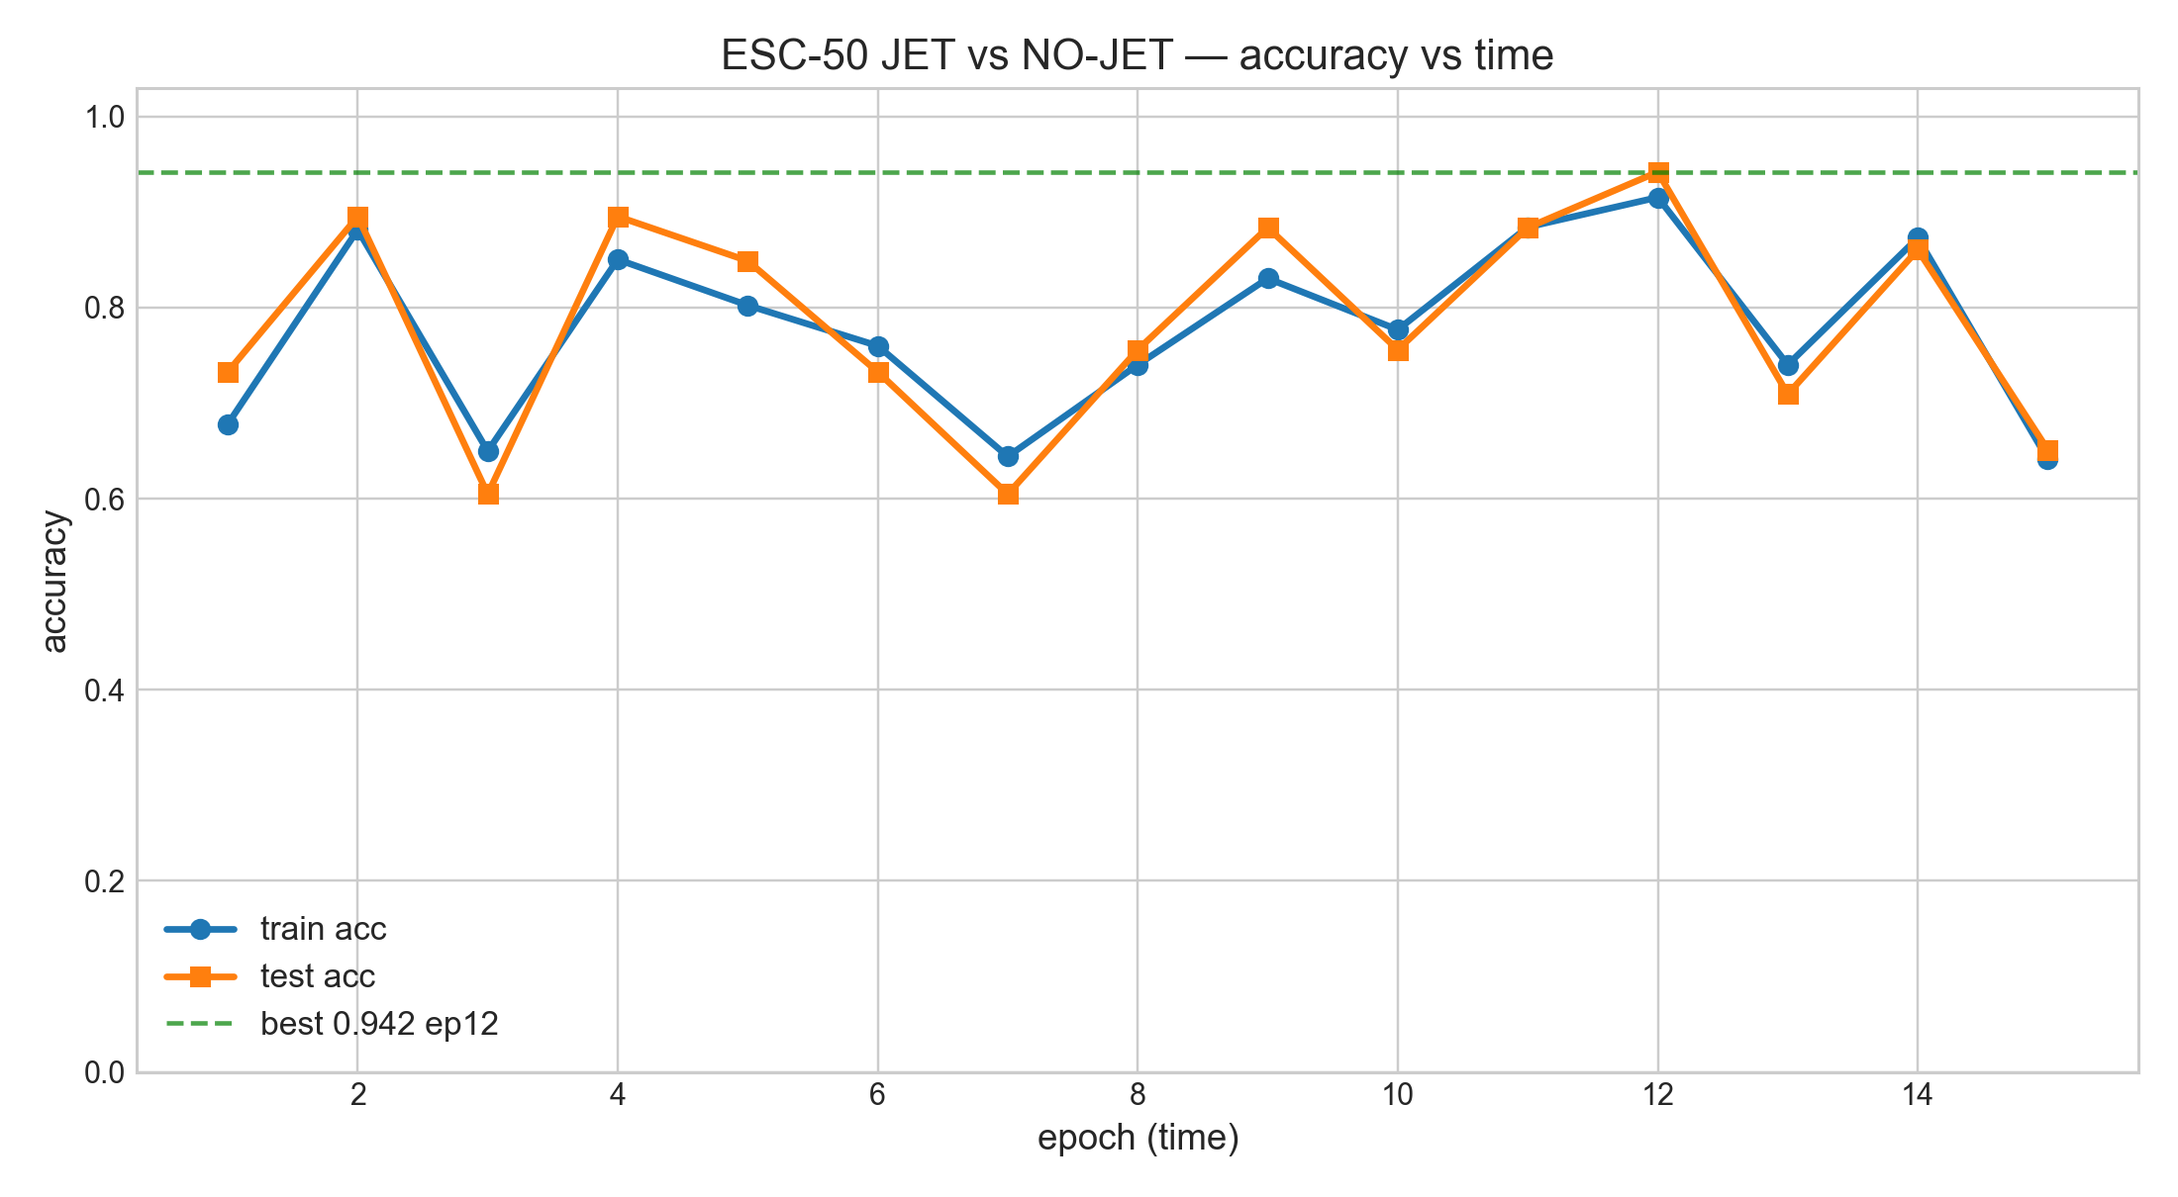
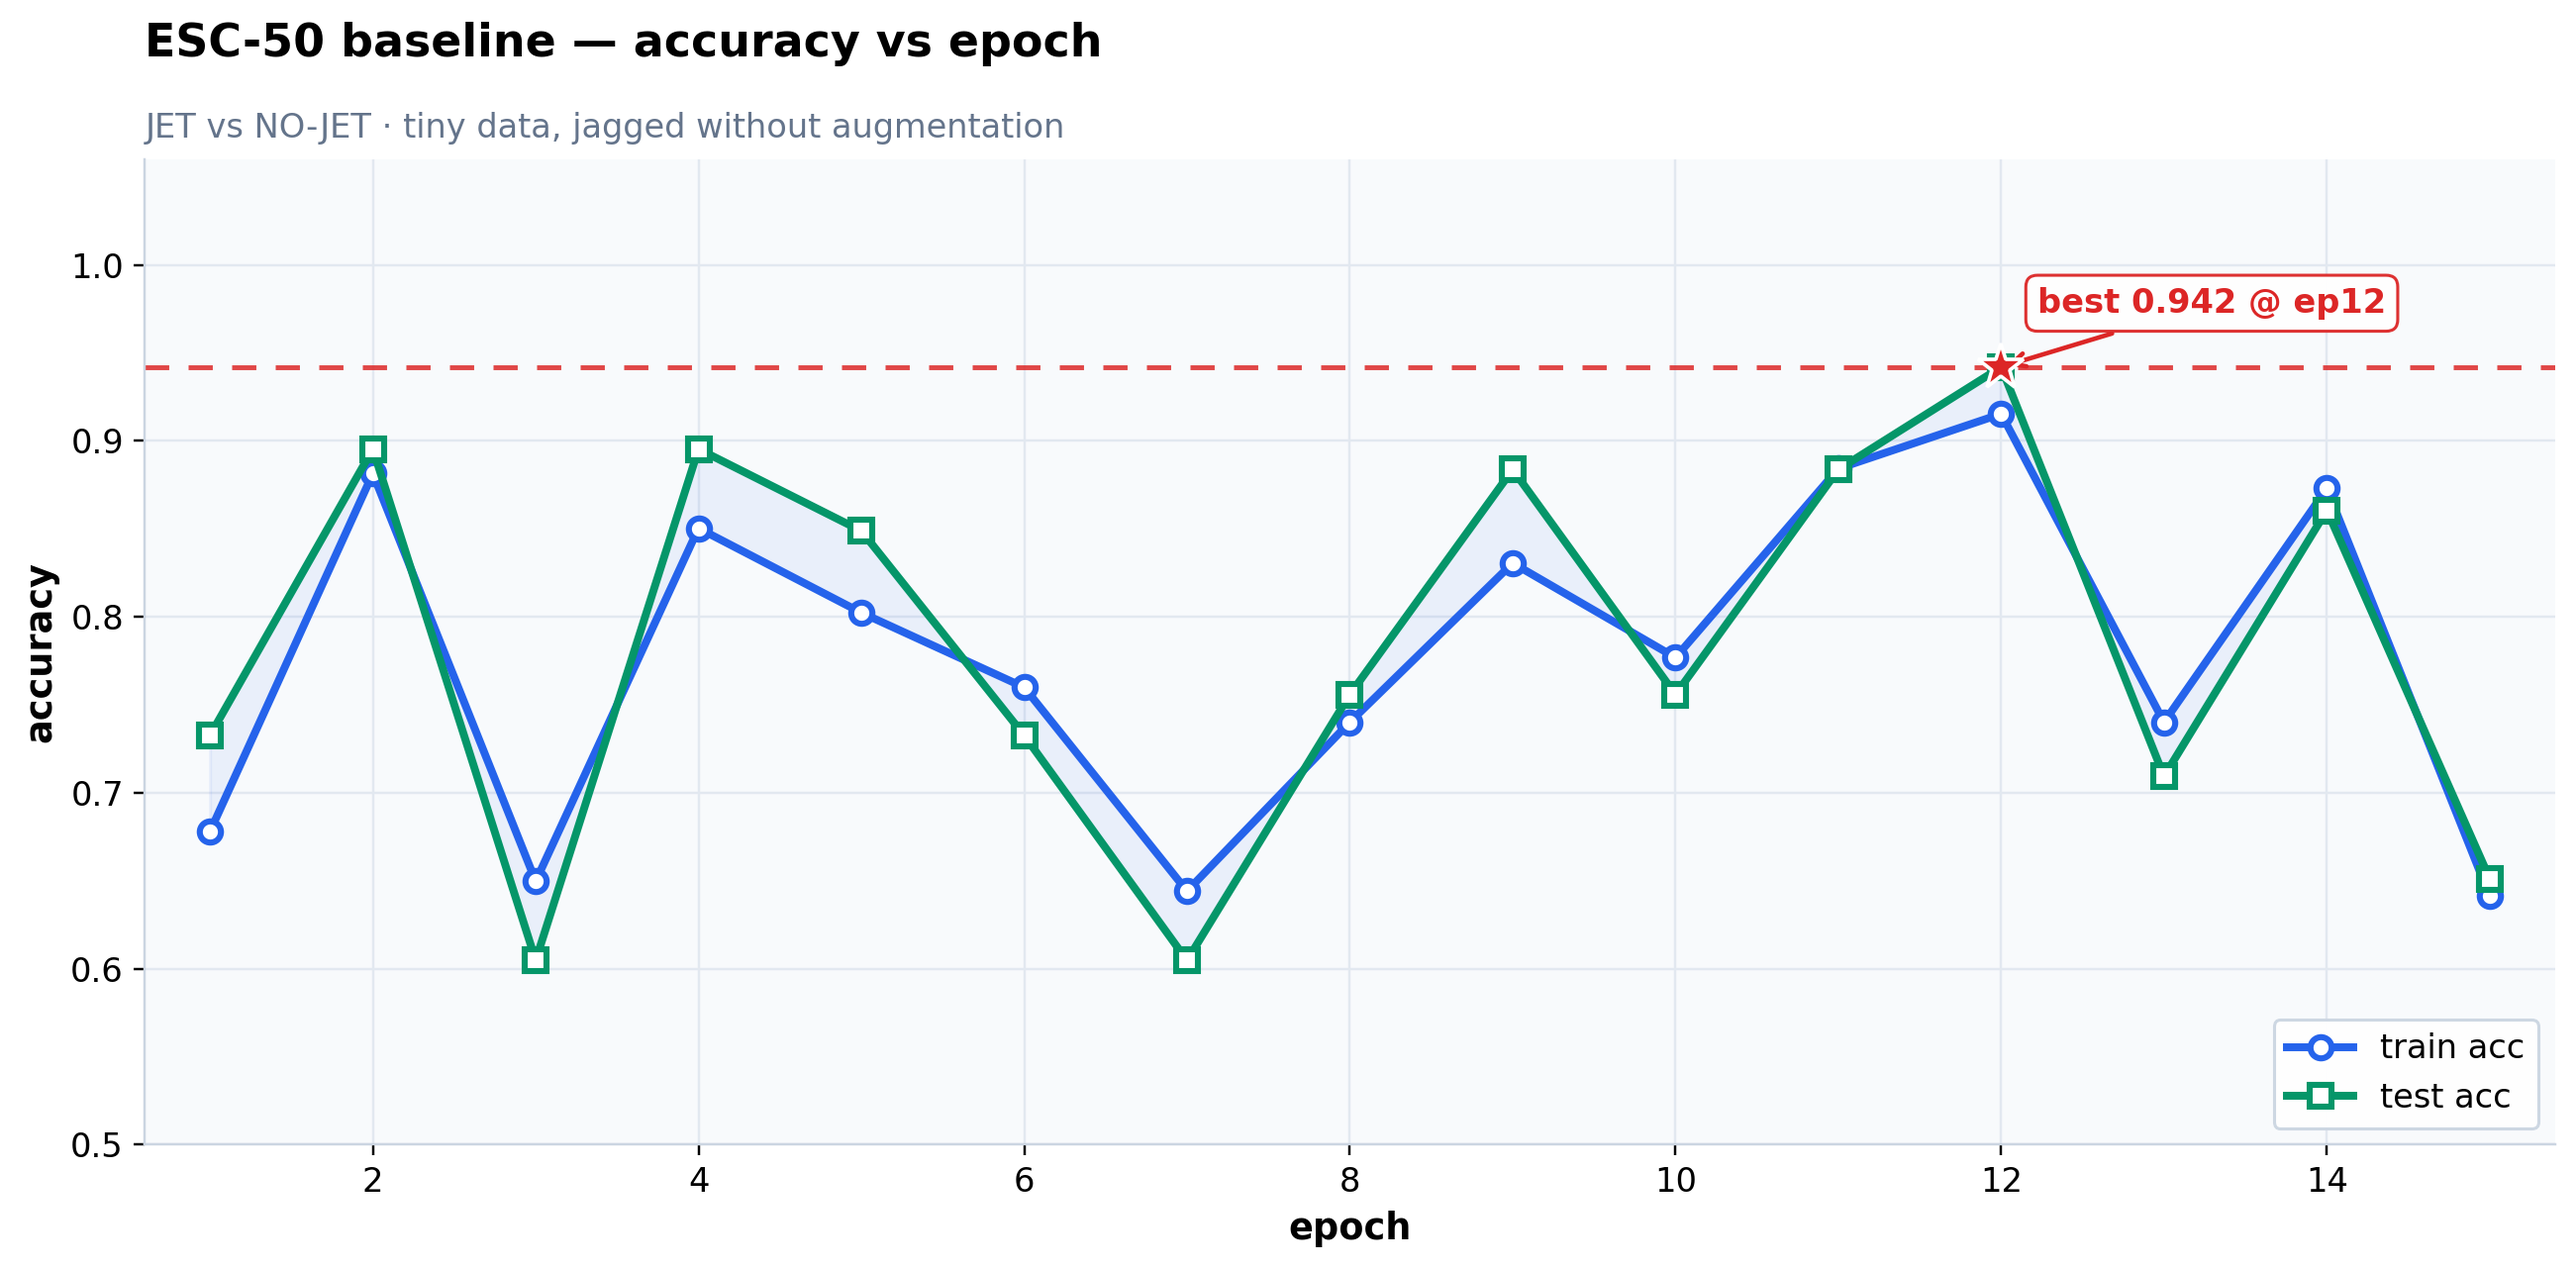
Restyle plots: modern slate theme, zoomed learning curves, annotated best points

diff --git a/make_plots_hq.py b/make_plots_hq.py
@@ -1,77 +1,149 @@
-"""Regenerate all plots at publication quality (dpi=220, bigger fonts, styled)."""
+"""Regenerate all plots — modern theme (clean geometry, cohesive palette)."""
 from pathlib import Path
 import csv
 import matplotlib
 matplotlib.use("Agg")
 import matplotlib.pyplot as plt
+from matplotlib.ticker import MaxNLocator
 
 DATA = Path(__file__).parent
 DPI = 220
-try:
-    plt.style.use("seaborn-v0_8-whitegrid")
-except OSError:
-    plt.style.use("ggplot")
-plt.rcParams.update({"font.size": 12, "axes.titlesize": 14, "axes.labelsize": 12,
-                     "xtick.labelsize": 10, "ytick.labelsize": 10, "legend.fontsize": 11})
+
+# ---- Theme ----
+BLUE   = "#2563EB"   # train / primary
+EMERALD = "#059669"  # test
+AMBER  = "#F59E0B"   # secondary series
+RED    = "#DC2626"   # best marker
+SLATE_BG = "#F8FAFC"
+GRID_C = "#E2E8F0"
+SPINE_C = "#CBD5E1"
+
+plt.rcParams.update({
+    "figure.facecolor": "white",
+    "axes.facecolor": SLATE_BG,
+    "axes.edgecolor": SPINE_C,
+    "axes.grid": True,
+    "grid.color": GRID_C,
+    "grid.linewidth": 0.8,
+    "grid.alpha": 1.0,
+    "axes.axisbelow": True,
+    "font.size": 12,
+    "axes.titlesize": 15,
+    "axes.titleweight": "bold",
+    "axes.labelsize": 12,
+    "xtick.labelsize": 11,
+    "ytick.labelsize": 11,
+    "legend.fontsize": 11,
+    "legend.frameon": True,
+    "legend.facecolor": "white",
+    "legend.edgecolor": SPINE_C,
+    "axes.spines.top": False,
+    "axes.spines.right": False,
+})
 
 def read_hist(name):
     ep, loss, tr, te = [], [], [], []
-    with open(DATA/name) as f:
+    with open(DATA / name) as f:
         for r in csv.DictReader(f):
             ep.append(int(r["epoch"])); loss.append(float(r["loss"]))
             tr.append(float(r["train_acc"])); te.append(float(r["test_acc"]))
     return ep, loss, tr, te
 
-def acc_plot(csvname, out, title):
+
+def acc_plot(csvname, out, title, subtitle):
     ep, loss, tr, te = read_hist(csvname)
     best = max(te); be = ep[te.index(best)]
-    fig, ax = plt.subplots(figsize=(10, 5.5))
-    ax.plot(ep, tr, "o-", lw=2.2, ms=6, label="train acc")
-    ax.plot(ep, te, "s-", lw=2.2, ms=6, label="test acc")
-    ax.axhline(best, color="green", ls="--", lw=1.5, alpha=0.7, label=f"best {best:.3f} ep{be}")
-    ax.set_xlabel("epoch (time)"); ax.set_ylabel("accuracy")
-    ax.set_title(title); ax.set_ylim(0, 1.03); ax.legend(framealpha=0.95)
-    fig.tight_layout(); fig.savefig(DATA/out, dpi=DPI); plt.close(fig)
+    fig, ax = plt.subplots(figsize=(12, 6))
+    ax.fill_between(ep, tr, te, color=BLUE, alpha=0.07, zorder=1)
+    ax.plot(ep, tr, "o-", color=BLUE, lw=2.6, ms=7, mfc="white", mew=2,
+            label="train acc", zorder=3)
+    ax.plot(ep, te, "s-", color=EMERALD, lw=2.6, ms=7, mfc="white", mew=2,
+            label="test acc", zorder=3)
+    ax.axhline(best, color=RED, ls=(0, (5, 4)), lw=1.6, alpha=0.85, zorder=2)
+    ax.plot(be, best, "*", color=RED, ms=16, mec="white", mew=1.2, zorder=4)
+    ax.annotate(f"best {best:.3f} @ ep{be}",
+                xy=(be, best), xytext=(12, 18), textcoords="offset points",
+                fontsize=11, color=RED, weight="bold",
+                bbox=dict(boxstyle="round,pad=0.35", fc="white", ec=RED, alpha=0.95),
+                arrowprops=dict(arrowstyle="->", color=RED, lw=1.5))
+    ax.set_xlabel("epoch", fontweight="bold")
+    ax.set_ylabel("accuracy", fontweight="bold")
+    ax.set_title(title, loc="left", pad=34)
+    ax.text(0, 1.015, subtitle, transform=ax.transAxes, fontsize=11, color="#64748B",
+            va="bottom", ha="left")
+    lo = max(0.0, min(min(tr), min(te)) - 0.08)
+    lo = min(lo, 0.5)  # keep a consistent zoomed floor across curves
+    ax.set_ylim(lo, 1.06)
+    ax.xaxis.set_major_locator(MaxNLocator(integer=True, nbins=10))
+    ax.set_xlim(min(ep) - 0.4, max(ep) + 0.4)
+    ax.legend(framealpha=0.95, loc="lower right")
+    fig.tight_layout()
+    fig.savefig(DATA / out, dpi=DPI, bbox_inches="tight")
+    plt.close(fig)
     print("saved", out, f"best={best:.3f}@{be}")
 
-acc_plot("history_esc50.csv", "acc_vs_time.png", "ESC-50 JET vs NO-JET — accuracy vs time")
-acc_plot("history_v1.csv", "acc_v1.png", "v1 JET (ESC-50 + YT military jets, augmented) — accuracy vs time")
-acc_plot("history_v2.csv", "acc_v2.png", "v2 JET (ESC-50 + ~864 YT jets, augmented) — accuracy vs time")
 
-# benchmark bars
+acc_plot("history_esc50.csv", "acc_vs_time.png",
+         "ESC-50 baseline — accuracy vs epoch",
+         "JET vs NO-JET · tiny data, jagged without augmentation")
+acc_plot("history_v1.csv", "acc_v1.png",
+         "v1 — accuracy vs epoch",
+         "ESC-50 + YT military jets · augmented · best checkpoint kept")
+acc_plot("history_v2.csv", "acc_v2.png",
+         "v2 — accuracy vs epoch",
+         "ESC-50 + ~864 YT jets · augmented · current best")
+
+# ---- benchmark grouped bars ----
 import numpy as np
 labels = ["synth", "esc50", "v1", "v2"]
 esc = [0.909, 0.648, 0.886, 0.932]
 ba = [0.00, 0.96, 0.39, 0.07]
 b1 = [0.00, 1.00, 0.98, 0.98]
-x = np.arange(len(labels)); w = 0.25
-fig, ax = plt.subplots(figsize=(10.5, 5.5))
-b0 = ax.bar(x-w, esc, w, label="ESC-fold5 acc", edgecolor="black")
-b1_ = ax.bar(x, ba, w, label="BlueAngels prob", edgecolor="black")
-b2 = ax.bar(x+w, b1, w, label="B-1 pass prob", edgecolor="black")
-ax.set_xticks(x); ax.set_xticklabels(labels); ax.set_ylim(0, 1.06); ax.set_ylabel("score")
-ax.set_title("Jet model benchmarks — ESC-50 vs real-world (boom excluded: needs transient head)")
-ax.legend(framealpha=0.95)
+x = np.arange(len(labels)); w = 0.22
+fig, ax = plt.subplots(figsize=(12, 6))
+b0 = ax.bar(x - w, esc, w, label="ESC-fold5 acc", color=BLUE, edgecolor="white", linewidth=1.2, zorder=3)
+b1_ = ax.bar(x, ba, w, label="BlueAngels prob", color=AMBER, edgecolor="white", linewidth=1.2, zorder=3)
+b2 = ax.bar(x + w, b1, w, label="B-1 pass prob", color=EMERALD, edgecolor="white", linewidth=1.2, zorder=3)
+ax.set_xticks(x); ax.set_xticklabels(labels, fontweight="bold", fontsize=12)
+ax.set_ylim(0, 1.15); ax.set_ylabel("score", fontweight="bold")
+ax.set_title("Jet model benchmarks", loc="left", pad=34)
+ax.text(0, 1.015, "ESC-50 accuracy vs real-world detection probability · boom excluded (needs transient head)",
+        transform=ax.transAxes, fontsize=11, color="#64748B", va="bottom", ha="left")
+ax.legend(framealpha=0.95, loc="upper left", ncols=3)
+ax.yaxis.set_major_locator(plt.MultipleLocator(0.2))
 for bars in (b0, b1_, b2):
-    ax.bar_label(bars, fmt="%.2f", fontsize=9)
-fig.tight_layout(); fig.savefig(DATA/"bench.png", dpi=DPI); plt.close(fig)
+    lbls = [f"{b.get_height():.2f}" if b.get_height() > 0.03 else "" for b in bars]
+    ax.bar_label(bars, labels=lbls, fontsize=10, padding=4, fontweight="bold")
+fig.tight_layout()
+fig.savefig(DATA / "bench.png", dpi=DPI, bbox_inches="tight")
+plt.close(fig)
 print("saved bench.png")
 
-# sample spectrogram HQ
+# ---- sample spectrogram ----
 import torch, torchaudio, sys
 sys.path.insert(0, str(DATA))
 from train_jet import JetCNN, wav_to_logmel
 f = "yt_flybys_5s/jet_0261.wav"
-w, sr = torchaudio.load(str(DATA/f)); w = w.squeeze(0)
-m = JetCNN(); m.load_state_dict(torch.load(DATA/"esc50_jet.pt", map_location="cpu")); m.eval()
+w, sr = torchaudio.load(str(DATA / f)); w = w.squeeze(0)
+m = JetCNN(); m.load_state_dict(torch.load(DATA / "esc50_jet.pt", map_location="cpu")); m.eval()
 with torch.no_grad():
     p = torch.sigmoid(m(wav_to_logmel(w).unsqueeze(0).unsqueeze(0))).item()
 mel = wav_to_logmel(w)
-fig, ax = plt.subplots(2, 1, figsize=(11, 6.5), gridspec_kw={"hspace": 0.35})
-ax[0].plot(w.numpy(), lw=0.4); ax[0].set_title(f"{f}  waveform  jet_prob={p:.3f}  rms={w.pow(2).mean().sqrt():.3f}")
-ax[0].set_xlim(0, len(w)); ax[0].set_xlabel("samples @16kHz"); ax[0].set_ylabel("amp")
+fig, ax = plt.subplots(2, 1, figsize=(12, 7.5), gridspec_kw={"hspace": 0.65})
+ax[0].fill_between(range(len(w)), w.numpy(), color=BLUE, alpha=0.25, linewidth=0)
+ax[0].plot(w.numpy(), color=BLUE, lw=0.5)
+ax[0].set_title("Waveform", loc="left", pad=30)
+ax[0].text(0, 1.01, f"{f}  ·  jet_prob={p:.3f}  ·  rms={w.pow(2).mean().sqrt():.3f}",
+           transform=ax[0].transAxes, fontsize=11, color="#64748B", va="bottom", ha="left")
+ax[0].set_xlim(0, len(w)); ax[0].set_xlabel("samples @16kHz", fontweight="bold"); ax[0].set_ylabel("amp", fontweight="bold")
 im = ax[1].imshow(mel.numpy(), origin="lower", aspect="auto", cmap="magma")
-ax[1].set_title("log-mel 64 bands × 313 frames (5 s @16 kHz)"); ax[1].set_xlabel("time"); ax[1].set_ylabel("mel")
-fig.colorbar(im, ax=ax[1], shrink=0.9)
-fig.tight_layout(); fig.savefig(DATA/"sample_jet_0261.png", dpi=DPI); plt.close(fig)
+ax[1].set_title("Log-mel spectrogram", loc="left", pad=30)
+ax[1].text(0, 1.01, "64 bands × 313 frames (5 s @16 kHz) — broadband roar, bright low-mel band = flyby signature",
+           transform=ax[1].transAxes, fontsize=11, color="#64748B", va="bottom", ha="left")
+ax[1].set_xlabel("time frames", fontweight="bold"); ax[1].set_ylabel("mel band", fontweight="bold")
+cbar = fig.colorbar(im, ax=ax[1], shrink=0.92, pad=0.015)
+cbar.set_label("log energy", fontweight="bold")
+fig.tight_layout()
+fig.savefig(DATA / "sample_jet_0261.png", dpi=DPI, bbox_inches="tight")
+plt.close(fig)
 print("saved sample_jet_0261.png")
